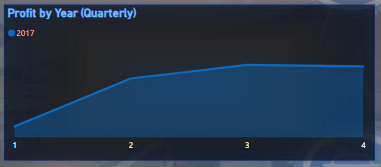
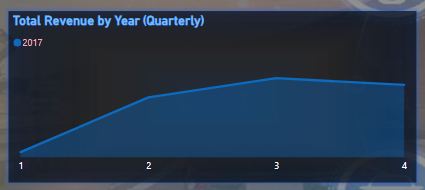
last commit

Changed region(s): [[0.0, 0.0, 1.0, 0.988], [0.9816, 0.988, 1.0, 1.0]]

diff --git a/generic.html b/generic.html
@@ -46,42 +46,55 @@
 								<div class="image main"><img src="images/olkdashboard.PNG" alt="" />
 								</div>
 							<p>
-								<strong>
-									Introduction:
-								</strong>
-								OLK Cookies Industries LTD, a company that produces cookies for human consumption, commissioned a comprehensive
-								 analysis to elucidate critical aspects of its business operations. The focus of this analysis
-								  was to delineate key performance indicators (KPIs) that encompassed total transactions, Gross profit,
-								   total revenue, gross profit margin, and production costs. The project additionally delved into
-								    customer segmentation based on the quantity of cookies purchased, with a keen examination of the 
-									associated shipping durations.
-
-								Executed as part of an intern project, this analysis undertook meticulous data cleaning and modeling 
-								procedures employing advanced tools such as Power Query and Power BI. The utilization of these sophisticated
-								 analytical tools ensured a rigorous and insightful examination of OLK Industries operational dynamics, allowing 
-								 for a nuanced understanding of various facets crucial to strategic decision-making and business optimization.
-								  The outcomes of this project contribute valuable insights for refining business strategies and enhancing 
-								  overall performance within the sales of cookies.
-								
-								
-								
-								
-								
-								
+								<strong>Introduction:</strong>
+								OLK Cookies Industries LTD, a leading producer of cookies for human 
+								consumption, embarked on a comprehensive analysis to illuminate critical aspects of its 
+								business operations.
+							</p>	
+							<p>	 
+								The primary objective of this endeavor is to provide actionable insights for refining 
+									business strategies and enhancing overall performance within the realm of cookie sales.
+									The project was aimed at conducting an in-depth sales analysis of the business,
+									 with particular emphasis on examining the impact of shipment duration on 
+									 customer lifetime value.
 							</p>
+							<p>
+								<strong>Objective:</strong>
+									The primary objective of this analysis was to identify and delineate key performance 
+									indicators (KPIs) encompassing
+									<ul>
+									 	<li>Total Transactions</li>
+										<li>Total Cookies Shipped</li>
+										<li>Total Revenue</li>
+										<li>Gross Profit Margin</li>
+										<li>Production Costs. </li>
+										<li>Customer Lifespan Value</li>
+									</ul>
+									
+							</p>
+							<p>
+									Executed as part of an intern project, this analysis involved meticulous 
+									data cleaning and modeling procedures utilizing advanced tools such as Power Query 
+									and Power BI. By leveraging these sophisticated analytical tools, the project ensured 
+									a rigorous and insightful examination of OLK Industrie's operational dynamics, 
+									facilitating a nuanced understanding of various crucial facets vital for strategic
+									 decision-making and business optimization.
+							</p>
+							
 							
 								<strong>	
 									Data Preparation:
 								</strong>
+								The raw data, spanning four years and organized into separate Excel sheets, was imported into Power Query using append 
+									and merge. 
+									The data underwent cleaning to address null values and unwanted figures. Afterward, it was loaded into Power BI
+									 for further analysis.
 								
 								<img class="image column" src="images/dataset.png"  alt="" />
 								<img class="image column" src="images/olkdirtydata.PNG"  alt="" />
 								
 								
-									The raw data, spanning four years and organized into separate Excel sheets, was imported into Power Query using append 
-									and merge. 
-									The data underwent cleaning to address null values and unwanted figures. Afterward, it was loaded into Power BI
-									 for further analysis.
+									
 									 
 									<p>
 									
@@ -93,11 +106,11 @@
 											<img class="image column" src="images/olkkpi.PNG"  alt="" />
 										</div>
 										<ul>	
-											<li>Total transactions: 3231</li>	
-											<li>Total gross profit: $279 million</li>
-											<li>Total revenue: $3 billion</li>
+											<li>Total transactions: 3172</li>	
+											<li>Total Cookies Shipped: 1.6 million</li>
+											<li>Total revenue: $2.7 billion</li>
 											<li>Gross profit margin 10.00%</li>
-											<li>Production cost: $3.78 million</li>	
+											<li>Production cost: $3.70 million</li>	
 										</ul>
 									</p>
 									
@@ -114,8 +127,9 @@
 												YT Restaurants:
 											</h4>
 											</strong>	
-											<li>Total Transactions: 670</li>
+											
 											<li>Number of Cookies Shipped: 345,614</li>
+											
 										</ul>
 										<ul>
 											<strong>
@@ -123,26 +137,18 @@
 												Quick Bite Conveniences Store:
 											</h4>
 											</strong>	
-											<li>Total Transactions: 779</li>
+											
 											<li>Number of Cookies Shipped: 395,394</li>
 										</ul>
 
-										<ul>
-											<strong>
-											<h4>
-												Promo Sales:
-											</h4>
-											</strong>	
-											<li>Total Transactions: 59</li>
-											<li>Number of Cookies Shipped: 31,778</li>
-										</ul>
+									
 										<ul>
 											<strong>
 											<h4>
 												Cascade Grovers:
 											</h4>
 											</strong>	
-											<li>Total Transactions: 918</li>
+											
 											<li>Number of Cookies Shipped: 479,965</li>
 										</ul>
 										<ul>
@@ -151,7 +157,7 @@
 												Park & Eat LLC:
 											</h4>
 											</strong>	
-											<li>Total Transactions: 597</li>
+											
 											<li>Number of Cookies Shipped: 313,113</li>
 										</ul>
 										<ul>
@@ -160,32 +166,13 @@
 												Acme Grocery Store:
 											</h4>
 											</strong>	
-											<li>Total Transactions: 208</li>
+											
 											<li>Number of Cookies Shipped: 112,358</li>
 										</ul>
+									
+
+									 Total Cookies Shipped from 2017 to 2020: amounts to <strong>1,646,444 numbers of cookies.</strong>
 									</p>
-									Therefore, the combined total transactions for all establishments over the period of 2017 to 2020 amount to <strong>3,231</strong>
-									Total Cookies Shipped from 2017 to 2020: amounts to <strong>1,198,257.</strong>
-									<p>
-										<strong>
-											Customer Segment:
-										</strong>
-										<img class="image column" src="images/olkpurchasesegment.PNG"  alt="" />
-										Establishments demonstrating transactional volumes equal to or exceeding 300 
-										were categorized as high-purchasing customers, reflecting a substantial level of engagement and business
-										 activity. Conversely, establishments with transactional volumes
-										 below 300 were classified as low-purchasing customers, indicating a comparatively moderate 
-										 level of business interaction. 
-										 This classification framework provides a structured approach to assessing the performance 
-										 and purchasing behavior of each customer, facilitating a nuanced understanding of their
-										  respective contributions to the overall business landscape.
-
-
-
-
-
-
- 									</p>
 									 <p>
 										<strong>
 											Shipments Duration Segment:
@@ -308,14 +295,7 @@
 								 it is recommended to conduct a comprehensive review of shipping processes. This may involve
 								  streamlining operations to reduce shipping durations, particularly for expedited shipments. 
 								  Improved logistics efficiency can contribute to enhanced customer experience and loyalty.
-								<h4>
-									Strategic Customer Engagement:
-								</h4>
-									The customer segmentation analysis identified establishments with transactional volumes
-									 equal to or exceeding 300 as high-purchasing customers. It is advisable to implement 
-									 targeted engagement strategies for these customers, such as personalized offers, loyalty 
-									 programs, or exclusive promotions. Strengthening relationships with high-purchasing 
-									 customers can have a positive impact on overall business performance.
+								
 								<h4>
 									Continuous Monitoring and Adaptation:
 								</h4>
